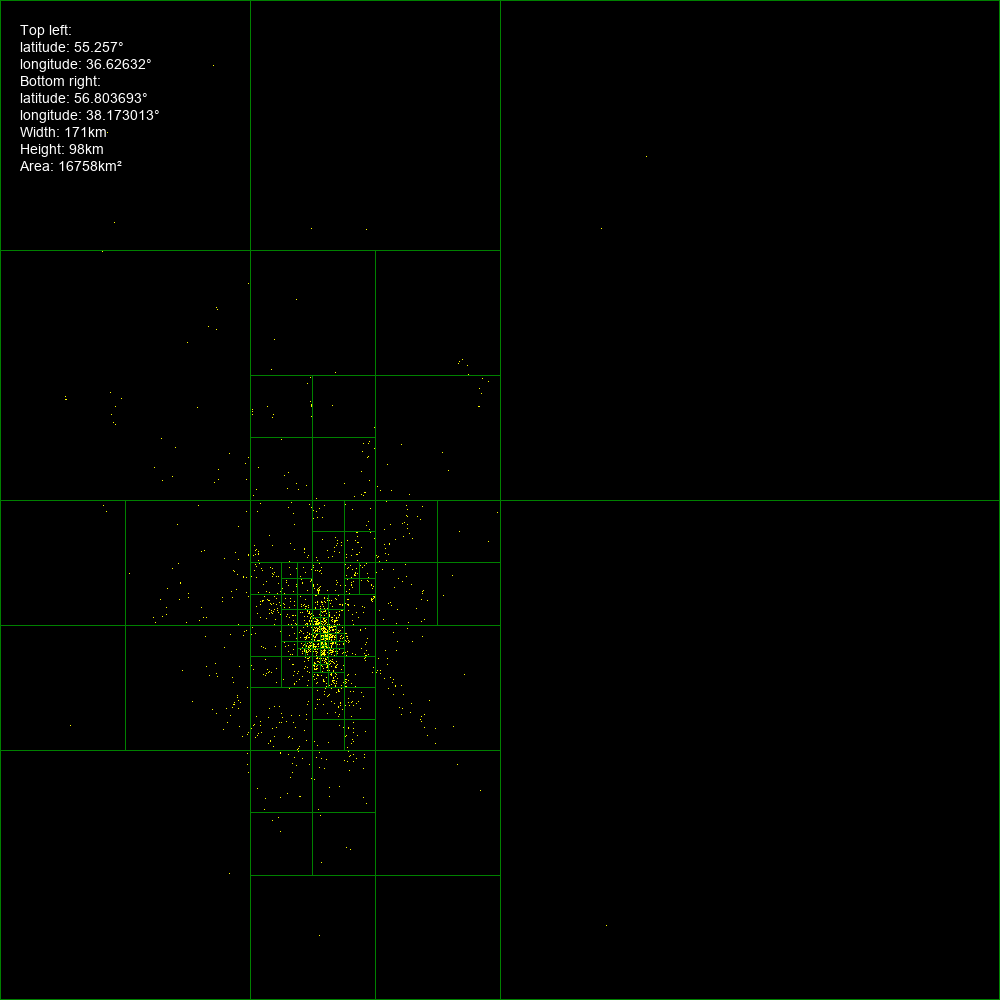
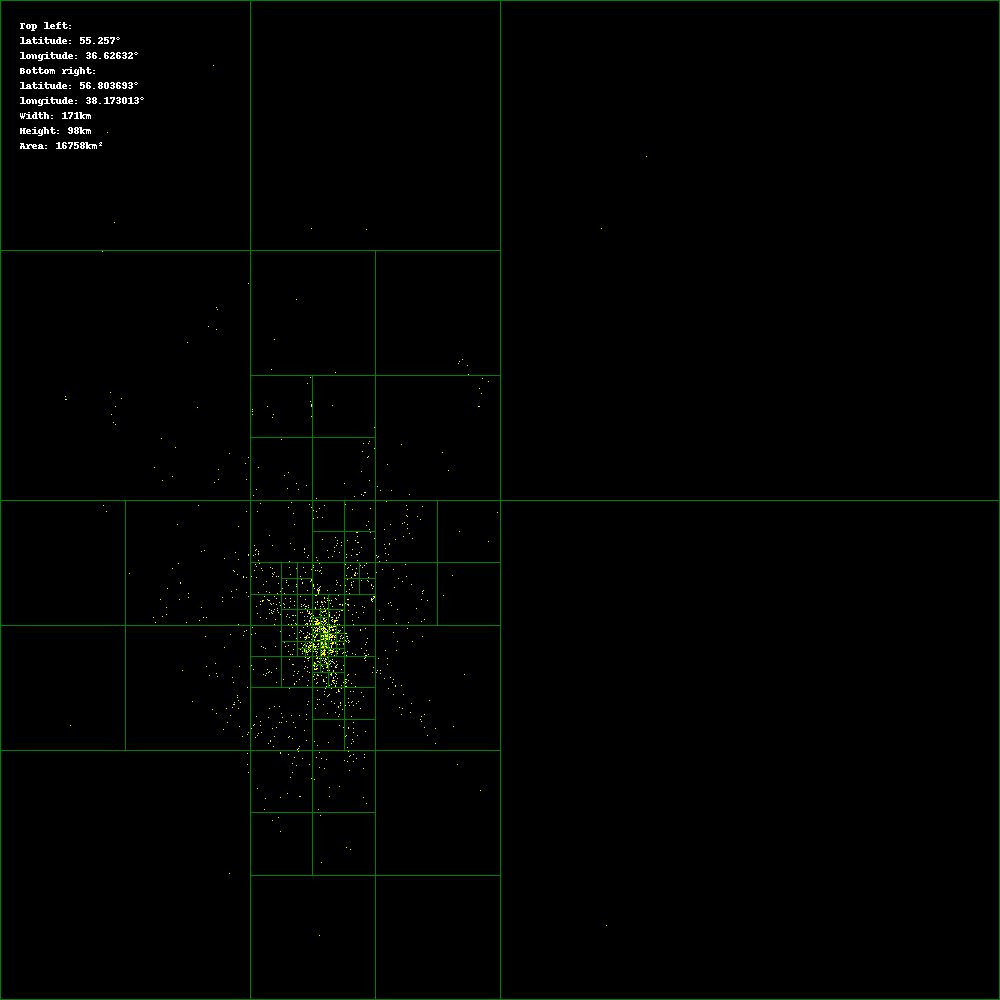
Small fixes

Changed region(s): [[0.0, 0.0, 0.155, 0.186]]

diff --git a/mobile_app/lib/pages/newsPage.dart b/mobile_app/lib/pages/newsPage.dart
@@ -1,8 +1,8 @@
 import 'package:flutter/cupertino.dart';
 import 'package:flutter/material.dart';
+import 'package:mw_insider/components/newsArticleImage.dart';
 import 'package:mw_insider/components/unauthorizedPage.dart';
 import 'package:intl/intl.dart';
-import 'package:mw_insider/config.dart';
 import 'package:mw_insider/services/authorizationService.dart';
 import 'package:mw_insider/services/backendCommunicationService.dart';
 import 'package:mw_insider/services/urlLauncherService.dart';
@@ -152,51 +152,7 @@ class Article extends StatelessWidget {
             },
             child: ClipRRect(
               borderRadius: BorderRadius.circular(10.0),
-              child: Image.network(
-                imgUrl,
-                errorBuilder: (BuildContext context, Object exception, StackTrace stackTrace){
-                  return Image.network(
-                    animeGirlsUrl,
-                    loadingBuilder: (context, child, progress){
-                      return progress == null
-                          ? child
-                          : Container(
-                        color: Colors.grey[300],
-                        padding: EdgeInsets.symmetric(vertical: 50.0, horizontal: 0.0),
-                        child: Center(
-                          child: CircularProgressIndicator(
-                            valueColor: AlwaysStoppedAnimation<Color>(Colors.deepPurple),
-                          ),
-                        ),
-                      );
-                    },
-                    errorBuilder: (BuildContext context, Object exception, StackTrace stackTrace){
-                      return Container(
-                        color: Colors.grey[300],
-                        padding: EdgeInsets.symmetric(vertical: 50.0, horizontal: 0.0),
-                        child: Center(
-                          child: CircularProgressIndicator(
-                            valueColor: AlwaysStoppedAnimation<Color>(Colors.deepPurple),
-                          ),
-                        ),
-                      );
-                    },
-                  );
-                },
-                loadingBuilder: (context, child, progress){
-                  return progress == null
-                  ? child
-                  : Container(
-                    color: Colors.grey[300],
-                    padding: EdgeInsets.symmetric(vertical: 50.0, horizontal: 0.0),
-                    child: Center(
-                      child: CircularProgressIndicator(
-                        valueColor: AlwaysStoppedAnimation<Color>(Colors.deepPurple),
-                      ),
-                    ),
-                  );
-                },
-              ),
+              child: ArticleImage(imgUrl: imgUrl),
             ),
           ),
           Text(

diff --git a/mobile_app/lib/components/newsArticleImage.dart b/mobile_app/lib/components/newsArticleImage.dart
@@ -1,0 +1,39 @@
+import 'package:flutter/cupertino.dart';
+import 'package:flutter/material.dart';
+import 'package:mw_insider/config.dart';
+
+class ArticleImage extends StatelessWidget {
+  final String imgUrl;
+  
+  const ArticleImage({this.imgUrl});
+  
+  @override
+  Widget build(BuildContext context) {
+    try {
+      return Image.network(
+        imgUrl,
+        errorBuilder: (BuildContext context, Object exception,
+            StackTrace stackTrace) {
+          return Image.asset("assets/images/AnimeGirls.jpg");
+        },
+        loadingBuilder: (context, child, progress) {
+          return progress == null
+              ? child
+              : Container(
+            color: Colors.grey[300],
+            padding: EdgeInsets.symmetric(vertical: 50.0, horizontal: 0.0),
+            child: Center(
+              child: CircularProgressIndicator(
+                valueColor: AlwaysStoppedAnimation<Color>(Colors.deepPurple),
+              ),
+            ),
+          );
+        },
+      );
+    }
+    catch(e){
+      print('Image loading error: $e');
+      return Image.asset("AnimeGirls.jpg");
+    }
+  }
+}

diff --git a/mobile_app/lib/config.dart b/mobile_app/lib/config.dart
@@ -6,8 +6,8 @@ import 'package:flutter/material.dart';
 
 Color themeColor = Colors.deepPurpleAccent.shade700;
 
-const String SERVER_URL = "10.0.2.2:8000";
-// const String SERVER_URL = "192.168.1.215:8000";
+// const String SERVER_URL = "10.0.2.2:8000";
+const String SERVER_URL = "192.168.1.215:8000";
 
 final storage = FlutterSecureStorage();
 

diff --git a/mobile_app/lib/services/urlLauncherService.dart b/mobile_app/lib/services/urlLauncherService.dart
@@ -5,5 +5,10 @@ void tryLaunch(String url) async{
   // if (ability){
   //   await launch(url);
   // }
-  await launch(url);
+  try{
+    await launch(url);
+  }
+  catch(e){
+    print("ERROR: $e");
+  }
 }

diff --git a/Backend/geo_objects/management/commands/build_quadtree.py b/Backend/geo_objects/management/commands/build_quadtree.py
@@ -1,5 +1,6 @@
 from django.core.management.base import BaseCommand
-from geo_objects.models import *
+# from geo_objects.models import *
+import geo_objects.models as models
 from math import floor
 from config import QUADTREE_CAPACITY
 from geo_objects.management.commands.visualize_quadtree import visualize
@@ -7,10 +8,10 @@ import json
 
 
 def clear_space():
-    Point.objects.all().delete()
-    Rectangle.objects.all().delete()
-    GeoPoint.objects.all().delete()
-    QuadTree.objects.all().delete()
+    models.Point.objects.all().delete()
+    models.Rectangle.objects.all().delete()
+    models.GeoPoint.objects.all().delete()
+    models.QuadTree.objects.all().delete()
 
 
 def get_bounds(geo_objects):
@@ -33,7 +34,7 @@ def get_bounds(geo_objects):
     return x, y, width, width
 
 
-def contains(rectangle: Rectangle, point: Point):
+def contains(rectangle, point):
     left = rectangle.x
     right = rectangle.x + rectangle.width
     top = rectangle.y
@@ -48,11 +49,11 @@ def contains(rectangle: Rectangle, point: Point):
 
 
 def insert(geo_object, quad_tree):
-    if GeoPoint.objects.filter(area=quad_tree.boundary).count() < quad_tree.capacity and not quad_tree.divided:
-        position = Point(x=geo_object.latitude, y=geo_object.longitude)
+    if models.GeoPoint.objects.filter(area=quad_tree.boundary).count() < quad_tree.capacity and not quad_tree.divided:
+        position = models.Point(x=geo_object.latitude, y=geo_object.longitude)
         position.save()
         
-        new_geo_point = GeoPoint(object=geo_object, position=position, area=quad_tree.boundary)
+        new_geo_point = models.GeoPoint(object=geo_object, position=position, area=quad_tree.boundary)
         new_geo_point.save()
     else:
         if not quad_tree.divided:
@@ -61,19 +62,19 @@ def insert(geo_object, quad_tree):
             width = quad_tree.boundary.width / 2
             height = quad_tree.boundary.height / 2
 
-            top_left_boundary = Rectangle(x=x, y=y, width=width, height=height)
-            top_right_boundary = Rectangle(x=(x + width), y=y, width=width, height=height)
-            bottom_left_boundary = Rectangle(x=x, y=(y + height), width=width, height=height)
-            bottom_right_boundary = Rectangle(x=(x + width), y=(y + height), width=width, height=height)
+            top_left_boundary = models.Rectangle(x=x, y=y, width=width, height=height)
+            top_right_boundary = models.Rectangle(x=(x + width), y=y, width=width, height=height)
+            bottom_left_boundary = models.Rectangle(x=x, y=(y + height), width=width, height=height)
+            bottom_right_boundary = models.Rectangle(x=(x + width), y=(y + height), width=width, height=height)
             top_left_boundary.save()
             top_right_boundary.save()
             bottom_left_boundary.save()
             bottom_right_boundary.save()
 
-            top_left_qt = QuadTree(boundary=top_left_boundary, capacity=QUADTREE_CAPACITY)
-            top_right_qt = QuadTree(boundary=top_right_boundary, capacity=QUADTREE_CAPACITY)
-            bottom_left_qt = QuadTree(boundary=bottom_left_boundary, capacity=QUADTREE_CAPACITY)
-            bottom_right_qt = QuadTree(boundary=bottom_right_boundary, capacity=QUADTREE_CAPACITY)
+            top_left_qt = models.QuadTree(boundary=top_left_boundary, capacity=QUADTREE_CAPACITY)
+            top_right_qt = models.QuadTree(boundary=top_right_boundary, capacity=QUADTREE_CAPACITY)
+            bottom_left_qt = models.QuadTree(boundary=bottom_left_boundary, capacity=QUADTREE_CAPACITY)
+            bottom_right_qt = models.QuadTree(boundary=bottom_right_boundary, capacity=QUADTREE_CAPACITY)
             top_left_qt.save()
             top_right_qt.save()
             bottom_left_qt.save()
@@ -87,7 +88,7 @@ def insert(geo_object, quad_tree):
             quad_tree.save()
 
         new_objects = []
-        old_points = GeoPoint.objects.filter(area=quad_tree.boundary)
+        old_points = models.GeoPoint.objects.filter(area=quad_tree.boundary)
         for old_point in old_points:
             old_geo_object = old_point.object
             new_objects.append(old_geo_object)
@@ -96,7 +97,7 @@ def insert(geo_object, quad_tree):
         new_objects.append(geo_object)
         
         for new_object in new_objects:
-            position = Point(x=new_object.latitude, y=new_object.longitude)
+            position = models.Point(x=new_object.latitude, y=new_object.longitude)
             if contains(quad_tree.top_left.boundary, position):
                 insert(new_object, quad_tree.top_left)
             elif contains(quad_tree.top_right.boundary, position):
@@ -115,11 +116,11 @@ def insert(geo_object, quad_tree):
 class Command(BaseCommand):
     def handle(self, *args, **options):
         clear_space()
-        geo_objects = GeoObject.objects.all()
+        geo_objects = models.GeoObject.objects.all()
         boundary_x, boundary_y, boundary_width, boundary_height = get_bounds(geo_objects)
-        qt_boundary = Rectangle(x=boundary_x, y=boundary_y, width=boundary_width, height=boundary_height)
+        qt_boundary = models.Rectangle(x=boundary_x, y=boundary_y, width=boundary_width, height=boundary_height)
         qt_boundary.save()
-        quad_tree = QuadTree(boundary=qt_boundary, capacity=QUADTREE_CAPACITY, is_root=True)
+        quad_tree = models.QuadTree(boundary=qt_boundary, capacity=QUADTREE_CAPACITY, is_root=True)
         quad_tree.save()
         for index, geo_object in enumerate(geo_objects, start=1):
             progress = floor((index / len(geo_objects)) * 100)
@@ -127,7 +128,7 @@ class Command(BaseCommand):
 
             insert(geo_object, quad_tree)
 
-        new_quad_tree = QuadTree.objects.get(is_root=True)
+        new_quad_tree = models.QuadTree.objects.get(is_root=True)
         data = new_quad_tree.get_json()
         tree = json.loads(data)
         visualize(tree, geo_objects, save=True, size=1000)

diff --git a/Backend/geo_objects/management/commands/visualize_quadtree.py b/Backend/geo_objects/management/commands/visualize_quadtree.py
@@ -1,9 +1,8 @@
 import math
-
 from django.core.management.base import BaseCommand
-from geo_objects.models import QuadTree, GeoObject
+import geo_objects.models as models
 import json
-from PIL import Image, ImageDraw, ImageFont
+from PIL import Image, ImageDraw
 from math import floor
 
 
@@ -123,7 +122,7 @@ def visualize(tree, geo_objects, size=1000, save=False, show=True):
     kilometer_width = get_coordinates_distance((start_x, start_y), (start_x + width, start_y)) // 1000
     kilometer_height = get_coordinates_distance((start_x, start_y), (start_x, start_y + height)) // 1000
 
-    font = ImageFont.truetype("arial.ttf", 14)
+    # font = ImageFont.truetype("arial.ttf", 14)
     drawer.text((20, 5),
                 f"""
 Top left: 
@@ -135,7 +134,7 @@ longitude: {round(start_y + height, 6)}°
 Width: {kilometer_width}km
 Height: {kilometer_height}km
 Area: {kilometer_width * kilometer_height}km²
-""", font=font)
+""")
 
     if show:
         quad_tree_img.show()
@@ -147,8 +146,8 @@ Area: {kilometer_width * kilometer_height}km²
 
 class Command(BaseCommand):
     def handle(self, *args, **options):
-        quad_tree = QuadTree.objects.get(is_root=True)
-        geo_objects = GeoObject.objects.all()
+        quad_tree = models.QuadTree.objects.get(is_root=True)
+        geo_objects = models.GeoObject.objects.all()
         data = quad_tree.get_json()
         tree = json.loads(data)
         print(f'Depth: {count_depth(tree)}, Sectors: {count_sectors(tree)}')

diff --git a/Backend/geo_objects/models.py b/Backend/geo_objects/models.py
@@ -2,6 +2,7 @@ from django.db import models
 from django.utils import timezone
 from taggit.managers import TaggableManager
 
+import geo_objects.management.commands.build_quadtree as bq
 
 CATEGORY_CHOICES = [
     ('MN', 'Monument'),
@@ -33,11 +34,16 @@ class GeoObject(models.Model):
                                     default=None, on_delete=models.SET_NULL)
     tags = TaggableManager(help_text="A comma-separated list of tags.", blank=False)
 
+    def save(self, *args, **kwargs):
+        super().save(*args, **kwargs)  # Call the "real" save() method.
+        quad_tree = QuadTree.objects.get(is_root=True)
+        bq.insert(self, quad_tree)
+
     def __str__(self):
         return f'{self.category}: {self.name_ru}/{self.name_en}'
 
     class Meta:
-        ordering = ['category']
+        ordering = ['category', 'name_ru']
 
 
 class SubmittedGeoObject(models.Model):

diff --git a/Backend/authorization/migrations/0009_settagsrequest.py b/Backend/authorization/migrations/0009_settagsrequest.py
@@ -1,0 +1,20 @@
+# Generated by Django 3.2 on 2021-05-01 18:17
+
+from django.db import migrations, models
+
+
+class Migration(migrations.Migration):
+
+    dependencies = [
+        ('authorization', '0008_userprofile_notification_tags'),
+    ]
+
+    operations = [
+        migrations.CreateModel(
+            name='SetTagsRequest',
+            fields=[
+                ('id', models.BigAutoField(auto_created=True, primary_key=True, serialize=False, verbose_name='ID')),
+                ('tags', models.CharField(max_length=500)),
+            ],
+        ),
+    ]
